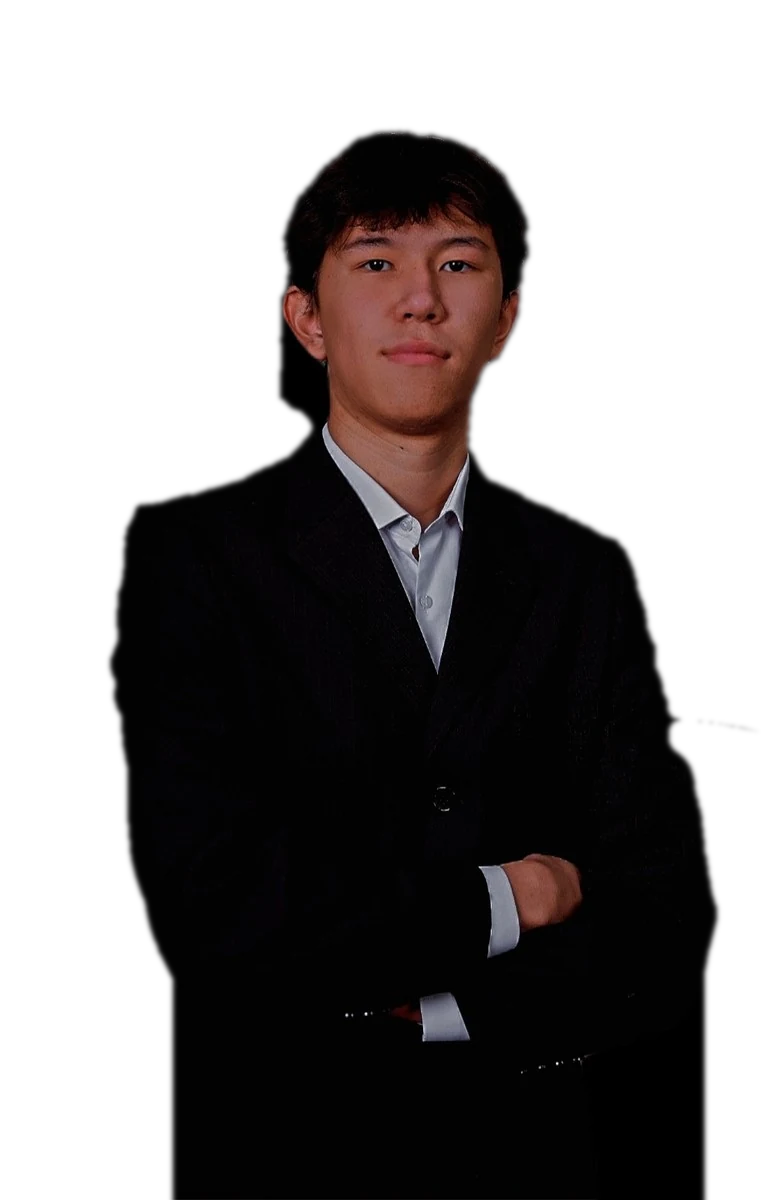
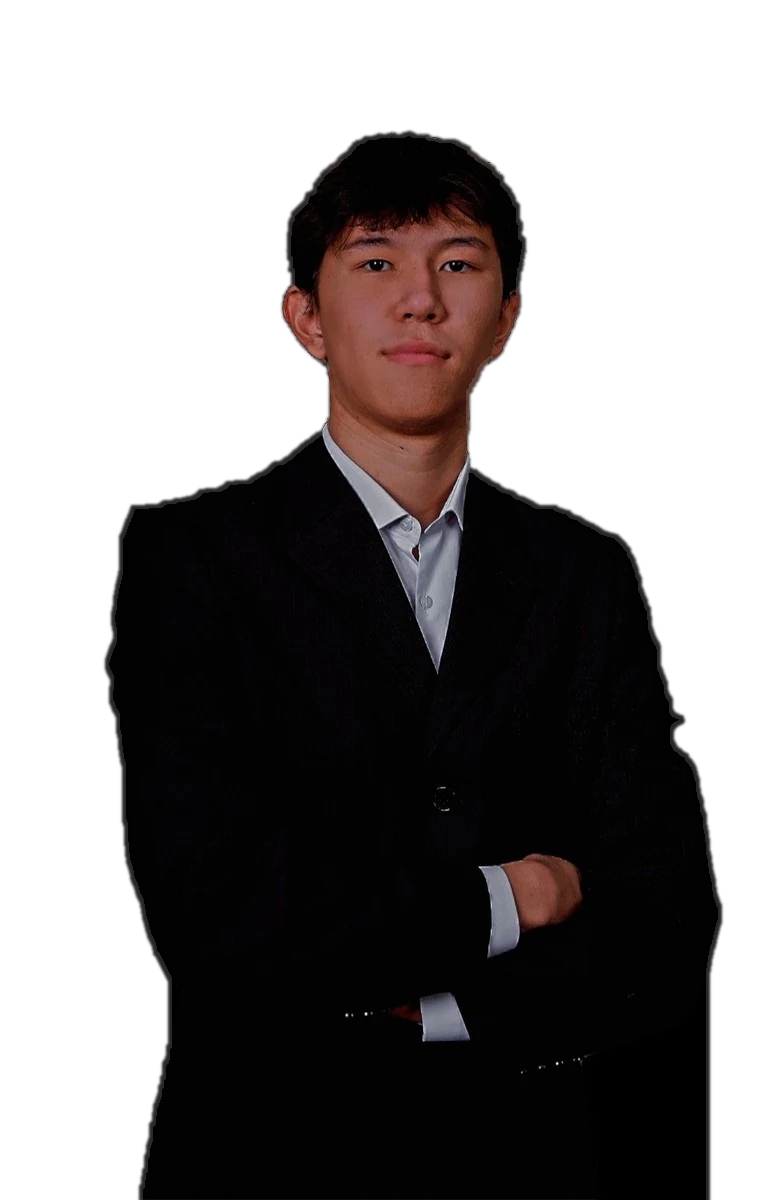
Команда 5.0 «The Living Frame»: фото ішіне кіру, X-Ray, Гүлзат портреті
- Портреттер: маска қара фондағы фотоның өзінен (GrabCut); Гүлзаттың
  шашы мен жүзінің оң жағы енді кесілмейді; бесеуі қайта жасалды.
- Ашылу: шынайы топ фотосы екі қабат (адамдар/фон, inpaint) - камера
  жақындағанда фон артқа кетіп, адамдар алға шығады, камера фото ішіне
  кіреді (tools/team_cutout.py --group).
- Финалдағы топ фотосы ашылудағы кадрдың тура орнында (проекция).
- Үзілмейтін жіп: бес автор арқылы өтетін бір сызық.
- X-Ray: әр автордың сайттағы нақты беттері, ашық тұрғанда кідіреді.
- «Болашақты адамдар жасайды.» Кэш v141, тесттер, QA есебі.

diff --git a/assets/js/team3d.js b/assets/js/team3d.js
@@ -175,20 +175,21 @@ async function start(D) {
     const m = new THREE.Mesh(new THREE.PlaneGeometry(width, width / ar), new THREE.MeshBasicMaterial({ map: tex, transparent: true, depthWrite: false, fog: false }));
     m.position.set(0, y, z); scene.add(m); return m;
   };
-  const pw = mobile ? 19 : 26;
+  const pw = mobile ? 15 : 24;
   const poster = [
-    textPlane(["THE PEOPLE"], { size: 220, z: 70, y: mobile ? 2.6 : 3.1, width: pw }),
-    textPlane(["BEHIND"], { size: 220, z: 66, y: mobile ? .95 : .55, width: pw * .62 }),
-    textPlane(["THE FUTURE."], { size: 220, z: 62, y: mobile ? -.9 : -2.3, width: pw * 1.05 }),
+    textPlane(["THE PEOPLE BEHIND"], { size: 168, z: 64, y: mobile ? 8.4 : 7.4, width: pw }),
+    textPlane(["THE FUTURE."], { size: 168, z: 64, y: mobile ? -8.6 : -7.6, width: pw }),
   ];
   poster.forEach((m, i) => { m.renderOrder = 60 + i; });
-  const crowd = ORDER.map((slug, i) => {
-    const k = i - 2, m = new THREE.Mesh(new THREE.PlaneGeometry(4.6, 5.75), new THREE.MeshBasicMaterial({ map: cutTex[slug], transparent: true, depthWrite: false, color: 0x6a6560 }));
-    const order = [1, 0, 2, 3, 4][i];   // постерде: Gulzat, Sagid (ортада), Dastan... - кадрдағы реті
-    m.position.set((order - 2) * (mobile ? 2.25 : 3.4), mobile ? -10.6 : -7.6 + Math.abs(order - 2) * .1, 54 - Math.abs(order - 2) * .5); m.scale.setScalar(mobile ? 1 : .86); m.renderOrder = 50; scene.add(m); void k; return m;
-  });
+  // «The Living Frame»: шынайы топ фотосы екі қабат (tools/team_cutout.py --group): фон және адамдар; камера жақындағанда бөлінеді
+  const PHZ = 46, PHW = mobile ? 15.5 : 19, PHH = PHW * 1681 / 2400;
+  const [bgTex, fgTex] = await Promise.all([load(D.group.bg), load(D.group.fg)]);
+  const photoBg = new THREE.Mesh(new THREE.PlaneGeometry(PHW, PHH), new THREE.MeshBasicMaterial({ map: bgTex, transparent: true, depthWrite: false, fog: false }));
+  const photoFg = new THREE.Mesh(new THREE.PlaneGeometry(PHW, PHH), new THREE.MeshBasicMaterial({ map: fgTex, transparent: true, depthWrite: false, fog: false }));
+  photoBg.position.set(0, 0, PHZ); photoFg.position.set(0, 0, PHZ + .01); photoBg.renderOrder = 48; photoFg.renderOrder = 49; scene.add(photoBg, photoFg);
+  const crowd = [photoBg, photoFg];
   const ringPts = []; for (let i = 0; i <= 160; i++) { const a = i / 160 * Math.PI * 2; ringPts.push(new THREE.Vector3(Math.cos(a) * 9, Math.sin(a) * 9, 0)); }
-  const ring = new THREE.Group(); ring.position.set(0, .6, 46); scene.add(ring);
+  const ring = new THREE.Group(); ring.position.set(0, 0, 40); scene.add(ring);
   const lineMat = new THREE.LineBasicMaterial({ color: CHAMP, transparent: true, opacity: .32, fog: false });
   ring.add(new THREE.Line(new THREE.BufferGeometry().setFromPoints(ringPts), lineMat));
   ring.add(new THREE.Line(new THREE.BufferGeometry().setFromPoints(ringPts.map((p) => p.clone().multiplyScalar(.93))), lineMat));
@@ -225,6 +226,11 @@ async function start(D) {
     }
     return { slug, m, i, x, portrait, key, grp, strips, A, B, texA, texB, lines, cw, chh, s0, archDrawn: -1 };
   });
+  // «Үзілмейтін жіп»: бес автордың сахнасы арқылы өтетін бір құрылымдық сызық; әр адамның еңбегімен ұзарады
+  const thrPts = people.map((P) => new THREE.Vector3(mobile ? P.x : P.x - 2.4, mobile ? -.6 : -1.9, PZP - 3.2));
+  const thread = new THREE.Line(new THREE.BufferGeometry().setFromPoints(new Array(64).fill(0).map(() => new THREE.Vector3())), new THREE.LineBasicMaterial({ color: CHAMP, transparent: true, opacity: 0, depthWrite: false }));
+  thread.frustumCulled = false; scene.add(thread);
+  const threadCurve = new THREE.CatmullRomCurve3([thrPts[0].clone().add(new THREE.Vector3(-14, 0, 0)), ...thrPts, thrPts[4].clone().add(new THREE.Vector3(14, 0, 0))]);
   // есімнің ішіне - сол адам жасаған қабат: әріп → құрылым → өнім
   const STAGE = [{ struct: 1, design: 0, content: 0, interact: 0 }, { struct: 1, design: 1, content: 0, interact: 0 }, { struct: 1, design: 1, content: 1, interact: 0 }, { struct: 1, design: 1, content: 1, interact: 1 }, null];
   const tmpSite = mkCanvas(FW, FH, 1);
@@ -297,11 +303,17 @@ async function start(D) {
   }
   const camU = (t) => { let i = 0; while (i < keys.length - 2 && t > keys[i + 1]) i++; return (i + clamp((t - keys[i]) / (keys[i + 1] - keys[i]))) / (keys.length - 1); };
   addEventListener("resize", layout);
+  // «мүмкін емес оралу»: финалдағы топ фотосы ашылудағы кадрдың тура орнында, тура өлшемінде (бастапқы камерадан проекциялау)
+  function frameGroup() {
+    const c0 = cam.clone(); c0.position.set(0, 0, PZ); c0.lookAt(0, 0, 0); c0.updateMatrixWorld(); c0.updateProjectionMatrix();
+    const w = stage.clientWidth, h = stage.clientHeight, a = new THREE.Vector3(-PHW / 2, PHH / 2, PHZ).project(c0), b = new THREE.Vector3(PHW / 2, -PHH / 2, PHZ).project(c0);
+    const img = $(".um-group img"); img.style.cssText = `left:${(a.x + 1) / 2 * w}px;top:${(1 - a.y) / 2 * h}px;width:${(b.x - a.x) / 2 * w}px;height:${(a.y - b.y) / 2 * h}px`;
+  }
 
   // ---------- HTML қабаттары ----------
   const q = $(".um-q"), cap = $(".um-cap"), capK = $(".um-k"), capT = $(".um-t"), capD = $(".um-d"), hint = $(".um-hint"), site = $(".um-site"), bar0 = $(".um-bar i"), fin = $(".um-fin");
   const storyEl = $(".um-story"), groupEl = $(".um-group"), voidEl = $(".um-void"), facesEl = $(".um-faces"), handEl = $(".um-hand");
-  const pp = $(".um-pp"), ppI = $(".um-pp-i"), ppE = $(".um-pp-e"), ppN = $(".um-pp-n"), ppR = $(".um-pp-r"), ppL = $(".um-pp-l"), ppA = $(".um-pp-a");
+  const pp = $(".um-pp"), ppI = $(".um-pp-i"), ppE = $(".um-pp-e"), ppN = $(".um-pp-n"), ppR = $(".um-pp-r"), ppL = $(".um-pp-l"), ppA = $(".um-pp-a"), xrB = $(".um-xr"), xrL = $(".um-xr-l");
   const CAP = D.acts; let capKey = "", ppKey = -1;
   function caption(t) {
     const c = CAP.find((a) => t >= a.from && t < a.to) || null, key = c ? c.t : "";
@@ -311,8 +323,9 @@ async function start(D) {
   }
   function person(t) {
     const i = Math.floor((t - T.act) / T.per), u = t - T.act - i * T.per, on = t >= T.act && t < T.col && u > 1.9 && u < T.per - 1.5;
-    if (on && ppKey !== i) { ppKey = i; const P = people[i], m = P.m; ppI.textContent = `${String(i + 1).padStart(2, "0")} / 05`; ppE.textContent = m.en; ppN.textContent = m.name; ppR.textContent = m.role; ppL.textContent = m.law; ppA.href = m.slug + ".html"; }
+    if (on && ppKey !== i) { ppKey = i; const P = people[i], m = P.m; ppI.textContent = `${String(i + 1).padStart(2, "0")} / 05`; ppE.textContent = m.en; ppN.textContent = m.name; ppR.textContent = m.role; ppL.textContent = m.law; ppA.href = m.slug + ".html"; xrL.replaceChildren(...m.works.map(([h, tt]) => { const li = document.createElement("li"), a = document.createElement("a"); a.href = h; a.textContent = tt; li.append(a); return li; })); }
     pp.classList.toggle("is-on", on);
+    if (!on && !xrL.hidden) { xrL.hidden = true; xrB.setAttribute("aria-expanded", "false"); }
   }
 
   // ---------- басқару: постер → «ENTER» не 6 с → өзі ойнайды ----------
@@ -328,6 +341,8 @@ async function start(D) {
   const pauseB = $(".um-pause"), chs = [...document.querySelectorAll(".um-chs a")];
   const setPause = (v) => { paused = v; pauseB.setAttribute("aria-pressed", String(v)); pauseB.textContent = v ? "Жалғастыру" : "Кідірту"; root.classList.toggle("is-paused", v); };
   pauseB.addEventListener("click", () => setPause(!paused));
+  // X-Ray: таңдалған автордың сайттағы нақты беттері (licensing/team.json works); ашық тұрғанда фильм кідіреді
+  xrB.addEventListener("click", () => { const open = xrL.hidden; xrL.hidden = !open; xrB.setAttribute("aria-expanded", String(open)); setPause(open); });
   addEventListener("keydown", (e) => { if (e.code === "Space" && started && !/^(A|BUTTON|INPUT|TEXTAREA)$/.test(e.target.tagName)) { e.preventDefault(); setPause(!paused); } });
   $(".um-enter").addEventListener("click", begin);
   new IntersectionObserver((es) => { onStage = es[0].intersectionRatio > .35; }, { threshold: [0, .35, .7] }).observe(stage);
@@ -354,7 +369,7 @@ async function start(D) {
   function buildFrags() { comp.x.clearRect(0, 0, FW, FH); layers.forEach((l) => comp.x.drawImage(l.A.c, 0, 0, FW, FH)); compTex.needsUpdate = true; off.fill(0); vel.fill(0); fragsBuilt = true; }
 
   const m4 = new THREE.Matrix4(), qI = new THREE.Quaternion(), qq = new THREE.Quaternion(), pv = new THREE.Vector3(), one = new THREE.Vector3(1, 1, 1), lookV = new THREE.Vector3();
-  layout();
+  layout(); frameGroup(); addEventListener("resize", frameGroup);
   let lastDraw = 0;
   function frame() {
     requestAnimationFrame(frame);
@@ -381,7 +396,11 @@ async function start(D) {
     // постер
     const pA = 1 - seg(t, 1.6, 3.4);
     poster.forEach((m, i) => { m.material.opacity = (started ? 1 : eo(posterT * 1.2 - i * .3)) * (1 - seg(cam.position.z, m.position.z + 3, m.position.z + .5)); m.visible = m.material.opacity > .01; });
-    crowd.forEach((m, i) => { m.material.opacity = (started ? 1 : eo(posterT * .8 - .6 - i * .08)) * (1 - seg(cam.position.z, m.position.z + 5, m.position.z + 1)); m.visible = m.material.opacity > .01; m.position.y += Math.sin(now * .4 + i) * .0015; });
+    { const sep = eio(seg(t, .3, 3.2)), into = 1 - seg(cam.position.z, PHZ + 4, PHZ + .6), fadeIn = started ? 1 : eo(posterT * .7 - .2);
+      photoBg.position.z = PHZ - sep * 3.2; photoBg.scale.setScalar(1 + sep * .07); photoBg.material.color.setScalar(1 - sep * .55);   // фон артқа кетіп, күңгірттенеді
+      photoFg.position.z = PHZ + sep * 2.6;                                                                                              // адамдар алға шығады
+      photoBg.material.opacity = fadeIn * into; photoFg.material.opacity = fadeIn * (1 - seg(cam.position.z, PHZ + 3.2, PHZ + 2.65));
+      crowd.forEach((m) => { m.visible = m.material.opacity > .01; }); }
     ring.rotation.z = now * .02; lineMat.opacity = .32 * pA * (started ? 1 : eo(posterT * .6 - .3)); ring.visible = lineMat.opacity > .01;
     // кейіпкерлер
     people.forEach((P) => {
@@ -397,6 +416,9 @@ async function start(D) {
       P.strips.forEach((S, k) => { S.mat.uniforms.reveal.value = reveal * 1.02; S.mat.uniforms.mixv.value = mixv; S.mat.uniforms.op.value = (1 - seg(u, 8.4, 10.2)) * .94; S.mesh.position.set(S.dir * brk * (1.2 + S.rnd * 2.4), S.y0 + (k - NAME_K / 2) * brk * .12, -brk * (2 + S.rnd * 9)); S.mesh.rotation.y = S.dir * brk * .25; });
       P.grp.position.x = (mobile ? P.x : P.x - 2.4) + px * (mobile ? .1 : .5);
     });
+    { const u = clamp((t - T.act + 1) / (T.col - T.act), 0, 1), pos = thread.geometry.attributes.position, n = pos.count;
+      for (let i = 0; i < n; i++) { const p = threadCurve.getPoint(Math.min(u, i / (n - 1)) * .86 + .02); pos.setXYZ(i, p.x, p.y, p.z); }
+      pos.needsUpdate = true; thread.material.opacity = .55 * seg(t, T.act - 1, T.act + 1) * (1 - seg(t, T.col - .5, T.col + 1)); thread.visible = thread.material.opacity > .01; }
     // IV: бөлшектер, тарту; V: шаңырақ
     if (fragOn && !fragsBuilt) buildFrags();
     if (!fragOn && t < T.col) fragsBuilt = false;

diff --git a/team/3d.html b/team/3d.html
@@ -55,7 +55,7 @@
   </header>
 
 <main id="main" class="um">
-  <script type="application/json" id="um-data">{"acts": [{"from": 12.1, "to": 17.5, "k": "I · Беті", "t": "Сайттың астындағы әлем", "d": "Әр сайттың астында қабаттар жатыр: әріп, интерфейс, логика, мазмұн."}, {"from": 17.5, "to": 22.8, "k": "I · Беті", "t": "Адамдарсыз - бос шыны", "d": "Оны жасаған адамдарды алып тастасақ, сайттан тек бос құрылым қалады."}, {"from": 79.6, "to": 83.8, "k": "IV · Оралу", "t": "Бесеуі қайта құрды", "d": "Сайт қабат-қабатымен орнына оралады."}, {"from": 83.8, "to": 87.5, "k": "IV · Құлау", "t": "Құрылымды өз қолыңмен бұз", "d": "Енді сайт - мыңдаған бөлшек. Тартып көріңіз: олар қайта жиналады."}, {"from": 88.0, "to": 95.2, "k": "V · Шаңырақ", "t": "Бес бағыт - бір шаңырақ", "d": "Интерфейстің бөлшектері шаңыраққа бірігеді. Бірақ оның соңғы бөлігі әлі орнында емес."}], "members": [{"slug": "gulzat", "name": "Tutkabayeva Gulzat", "role": "Бас дизайнер", "law": "Қаңқа жарыққа, түске және әріпке ие болады: Алаштың көркем тілі.", "en": "The Art Director", "given": "Gulzat", "cut": "../assets/img/team/cut/gulzat.webp"}, {"slug": "dastan", "name": "Toktybay Dastan", "role": "Мазмұн және сапа", "law": "Бос құрылым білімге толады: сабақтар, есептер, тесттер және тексерілген жауаптар.", "en": "The Curator", "given": "Dastan", "cut": "../assets/img/team/cut/dastan.webp"}, {"slug": "sagid", "name": "Sagid Mustafa", "role": "Жоба жетекшісі, архитектура", "law": "Алдымен қаңқа: әр элементтің орны мен байланысы. Платформаның ішкі жүйесі осылай басталды.", "en": "The Architect", "given": "Mustafa", "cut": "../assets/img/team/cut/sagid.webp"}, {"slug": "magzhan", "name": "Magzhan Romanov", "role": "Frontend әзірлеуші", "law": "Интерфейс тіріледі: код орындалады, батырма мен карточка әрекетке жауап береді.", "en": "The Engineer", "given": "Magzhan", "cut": "../assets/img/team/cut/magzhan.webp"}, {"slug": "merey", "name": "Kopenova Merey", "role": "Дизайнер", "law": "Бәрі оқушының қолындағы телефонға бейімделеді: ыңғайлы әрі түсінікті.", "en": "The Designer", "given": "Merey", "cut": "../assets/img/team/cut/merey.webp"}]}</script>
+  <script type="application/json" id="um-data">{"acts": [{"from": 12.1, "to": 17.5, "k": "I · Беті", "t": "Сайттың астындағы әлем", "d": "Әр сайттың астында қабаттар жатыр: әріп, интерфейс, логика, мазмұн."}, {"from": 17.5, "to": 22.8, "k": "I · Беті", "t": "Адамдарсыз - бос шыны", "d": "Оны жасаған адамдарды алып тастасақ, сайттан тек бос құрылым қалады."}, {"from": 79.6, "to": 83.8, "k": "IV · Оралу", "t": "Бесеуі қайта құрды", "d": "Сайт қабат-қабатымен орнына оралады."}, {"from": 83.8, "to": 87.5, "k": "IV · Құлау", "t": "Құрылымды өз қолыңмен бұз", "d": "Енді сайт - мыңдаған бөлшек. Тартып көріңіз: олар қайта жиналады."}, {"from": 88.0, "to": 95.2, "k": "V · Шаңырақ", "t": "Бес бағыт - бір шаңырақ", "d": "Интерфейстің бөлшектері шаңыраққа бірігеді. Бірақ оның соңғы бөлігі әлі орнында емес."}], "members": [{"slug": "gulzat", "name": "Tutkabayeva Gulzat", "role": "Бас дизайнер", "law": "Қаңқа жарыққа, түске және әріпке ие болады: Алаштың көркем тілі.", "en": "The Art Director", "given": "Gulzat", "cut": "../assets/img/team/cut/gulzat.webp", "works": [["../index.html", "Басты бет"], ["../film/index.html", "«Шақыру» фильмі"], ["../alash.html", "Алаш тұлғалары"]]}, {"slug": "dastan", "name": "Toktybay Dastan", "role": "Мазмұн және сапа", "law": "Бос құрылым білімге толады: сабақтар, есептер, тесттер және тексерілген жауаптар.", "en": "The Curator", "given": "Dastan", "cut": "../assets/img/team/cut/dastan.webp", "works": [["../math/", "Математика"], ["../academy/sat/index.html", "Digital SAT академиясы"], ["../academy/ielts/index.html", "IELTS академиясы"], ["../exam.html", "Қорытынды емтихан"]]}, {"slug": "sagid", "name": "Sagid Mustafa", "role": "Жоба жетекшісі, архитектура", "law": "Алдымен қаңқа: әр элементтің орны мен байланысы. Платформаның ішкі жүйесі осылай басталды.", "en": "The Architect", "given": "Mustafa", "cut": "../assets/img/team/cut/sagid.webp", "works": [["../academy/index.html", "CS Universe қозғалтқышы"], ["../login.html", "Платформа"], ["../copyright.html", "Лицензия аудиті"], ["../metrics.html", "Ашық метрикалар"]]}, {"slug": "magzhan", "name": "Magzhan Romanov", "role": "Frontend әзірлеуші", "law": "Интерфейс тіріледі: код орындалады, батырма мен карточка әрекетке жауап береді.", "en": "The Engineer", "given": "Magzhan", "cut": "../assets/img/team/cut/magzhan.webp", "works": [["../academy/labs/index.html", "CS зертханалары"], ["../academy/labs/equation.html", "Теңдеу таразысы"], ["../games.html", "Ойындар"], ["../viz.html", "Визуализациялар"]]}, {"slug": "merey", "name": "Kopenova Merey", "role": "Дизайнер", "law": "Бәрі оқушының қолындағы телефонға бейімделеді: ыңғайлы әрі түсінікті.", "en": "The Designer", "given": "Merey", "cut": "../assets/img/team/cut/merey.webp", "works": [["../academy/index.html", "CS Universe"], ["../posters.html", "Афиша"], ["../en/", "English Academy"]]}], "group": {"bg": "../assets/img/team/group-bg.jpg", "fg": "../assets/img/team/group-fg.webp"}}</script>
   <section class="um-film" aria-label="3D фильм: The Unmade, Жасалмаған сайт">
     <div class="um-stage">
       <canvas class="um-cv" aria-hidden="true"></canvas>
@@ -73,12 +73,12 @@
       </div>
       <p class="um-story" lang="en">Every system has a story.</p>
       <p class="um-q">Ал егер осының бәрін жасаған адамдарды алып тастасақ ше?</p>
-      <div class="um-pp" aria-live="polite"><p class="um-pp-i"></p><p class="um-pp-e" lang="en"></p><h2 class="um-pp-n"></h2><p class="um-pp-r"></p><p class="um-pp-l"></p><a class="um-pp-a" href="#">Жұмысын көру</a><p class="um-pp-note">Кадрдағы интерфейс - сайттың көрнекі көшірмесі; нақты беттері - сілтемеде.</p></div>
+      <div class="um-pp" aria-live="polite"><p class="um-pp-i"></p><p class="um-pp-e" lang="en"></p><h2 class="um-pp-n"></h2><p class="um-pp-r"></p><p class="um-pp-l"></p><div class="um-pp-row"><a class="um-pp-a" href="#">Жұмысын көру</a><button type="button" class="um-xr" aria-expanded="false" aria-controls="um-xr-l">X-Ray: нақты беттері</button></div><ul class="um-xr-l" id="um-xr-l" hidden></ul><p class="um-pp-note">Кадрдағы интерфейс - сайттың көрнекі көшірмесі; нақты беттері - сілтемеде.</p></div>
       <div class="um-cap" aria-live="polite"><p class="um-k"></p><p class="um-t"></p><p class="um-d"></p></div>
       <p class="um-hint" aria-hidden="true">Тінтуірмен не саусақпен тартыңыз</p>
       <p class="um-void">Бір идея ешқашан өздігінен шындыққа айналмайды.</p>
       <ul class="um-faces" aria-label="Команда"><li style="--i:0"><img src="../assets/img/team/dark/gulzat.jpg" alt="Tutkabayeva Gulzat, портрет" width="820" height="1200" loading="lazy" decoding="async"><b>Tutkabayeva Gulzat</b><span>Бас дизайнер</span></li><li style="--i:1"><img src="../assets/img/team/dark/dastan.jpg" alt="Toktybay Dastan, портрет" width="820" height="1200" loading="lazy" decoding="async"><b>Toktybay Dastan</b><span>Мазмұн және сапа</span></li><li style="--i:2"><img src="../assets/img/team/dark/sagid.jpg" alt="Sagid Mustafa, портрет" width="820" height="1200" loading="lazy" decoding="async"><b>Sagid Mustafa</b><span>Жоба жетекшісі, архитектура</span></li><li style="--i:3"><img src="../assets/img/team/dark/magzhan.jpg" alt="Magzhan Romanov, портрет" width="820" height="1200" loading="lazy" decoding="async"><b>Magzhan Romanov</b><span>Frontend әзірлеуші</span></li><li style="--i:4"><img src="../assets/img/team/dark/merey.jpg" alt="Kopenova Merey, портрет" width="820" height="1200" loading="lazy" decoding="async"><b>Kopenova Merey</b><span>Дизайнер</span></li></ul>
-      <div class="um-group"><img src="../assets/img/team/group-hd.jpg" alt="AO17 командасының бес мүшесі кітап сөрелерінің алдында, ортада глобус." width="2400" height="1681" loading="lazy" decoding="async"><p class="um-g1" lang="en">Not built by magic.<br>Built by people.</p><p class="um-g2">Бес адам. Бір шаңырақ. Бір болашақ.</p></div>
+      <div class="um-group"><img src="../assets/img/team/group-hd.jpg" alt="AO17 командасының бес мүшесі кітап сөрелерінің алдында, ортада глобус." width="2400" height="1681" loading="lazy" decoding="async"><p class="um-g1" lang="en">Not built by magic.<br>Built by people.</p><p class="um-g2">Болашақты адамдар жасайды.</p></div>
       <div class="um-hand"><p class="um-hand-k">Соңғы бөлігі - сенде</p><p class="um-hand-t">Бесеуі платформаны жасады. Алтыншысы - сен, оны қолданатын оқушы. Шаңырақтың соңғы бөлігін ортаға сүйреп апар.</p><button type="button" class="um-place">Орнату</button></div>
       <div class="um-fin">
         <p class="um-f1" lang="en">We built the foundation.<br>You build what's next.</p>

diff --git a/sw.js b/sw.js
@@ -1,7 +1,7 @@
 /* © 2026 AO17 командасы. All Rights Reserved. Дербес авторлық бағдарлама: рұқсатсыз көшіруге, таратуға, өзгертуге және коммерциялық пайдалануға болмайды. LICENSE-PROPRIETARY.md, COPYRIGHT.md. Harvard CS50 материалдары мен үшінші тарап компоненттері өз лицензияларымен қалады. */
 // AO17 — офлайн режим.
 // Беттер желіден алынады, ал желі жоқ кезде кэштегі соңғы нұсқа көрсетіледі.
-const CACHE = "cs50kz-v140";
+const CACHE = "cs50kz-v141";
 const CORE = [
   "./", "index.html", "programming.html", "about.html", "glossary.html", "certificate.html", "playground.html", "practice.html", "flashcards.html", "viz.html", "teacher.html", "debug.html", "detective.html", "flask.html", "projects.html", "assets/js/projects.js", "projects/model.js", "projects/checks/p1.js", "projects/checks/p2.js", "projects/checks/p3.js", "projects/checks/p4.js", "exam.html", "assets/js/exam.js", "profile.html", "assets/js/profile.js", "assets/js/cabinet.js", "games.html", "copyright.html", "assets/js/games-core.js", "assets/js/games-a.js", "assets/js/games-b.js", "assets/css/games-ui.css", "assets/css/games-ui2.css", "assets/fonts/inter-cyrillic-4ee8fc.woff2", "assets/fonts/inter-cyrillic-ext-ec84a3.woff2", "assets/fonts/inter-latin-567244.woff2", "assets/fonts/inter-latin-ext-395290.woff2", "assets/fonts/jetbrains-mono-cyrillic-b1b041.woff2", "assets/fonts/jetbrains-mono-cyrillic-ext-27e1b5.woff2", "assets/fonts/jetbrains-mono-latin-480c06.woff2", "assets/fonts/jetbrains-mono-latin-ext-ba1653.woff2", "assets/fonts/unbounded-cyrillic-c86556.woff2", "assets/fonts/unbounded-cyrillic-ext-67e1db.woff2", "assets/fonts/unbounded-latin-06f2e4.woff2", "assets/fonts/unbounded-latin-ext-80da0c.woff2", "assets/fonts/pt-serif-700-cyrillic.woff2", "assets/fonts/pt-serif-700-latin.woff2", "assets/fonts/fonts.css", "assets/js/cloud.js", "assets/js/feedback.js", "assets/js/flask.js", "assets/data/mystery.js", "assets/data/mystery2.js", "assets/data/quotes.js", "assets/data/portraits.js", "alash.html", "partners.html", "metrics.html", "assets/js/metrics.js", "courses.html", "python/index.html", "sql/index.html", "ai/index.html", "web/index.html", "sql/data/lectures.js", "ai/data/lectures.js", "web/data/lectures.js", "sql/lectures/week-0.html", "ai/lectures/week-0.html", "web/lectures/week-0.html", "python/lectures/week-0.html", "python/lectures/week-1.html", "python/lectures/week-2.html", "python/lectures/week-3.html", "python/lectures/week-4.html", "python/lectures/week-5.html", "python/lectures/week-6.html", "python/lectures/week-7.html", "python/lectures/week-8.html", "python/lectures/week-9.html", "python/checks/week-0.js", "python/checks/week-1.js", "python/checks/week-2.js", "python/checks/week-3.js", "python/checks/week-4.js", "python/checks/week-5.js", "python/checks/week-6.js", "python/checks/week-7.js", "python/checks/week-8.js", "python/checks/week-9.js", "python/data/lectures.js", "map.html", "cheatsheet.html", "assets/data/bugs.js", "assets/data/trace.js", "assets/data/checks.js", "assets/data/sqlchecks.js", "assets/img/seal.svg", "assets/img/bota.svg", "assets/img/bota-happy.svg", "assets/img/bota-think.svg", "assets/img/bota-wow.svg", "assets/vendor/qrcode/qrcode.js",
   "assets/css/style.css", "assets/js/main.js", "assets/js/labs.js",

diff --git a/assets/css/team.css b/assets/css/team.css
@@ -909,3 +909,18 @@ html:not(.st-js) .dm-beam { transform: none; }
   .um-g2 { margin-bottom: 40px; }
   .um-hand-t { font-size: .9rem; margin: .3rem 0 .6rem; }
 }
+/* 5.0: X-Ray (нақты беттер), фотоға оралу */
+.um-pp-row { display: flex; flex-wrap: wrap; gap: 10px 22px; align-items: baseline; }
+.um-xr { font: 500 .68rem/1 Inter, system-ui, sans-serif; letter-spacing: .22em; text-transform: uppercase; color: var(--cha); background: none; border: 0; border-bottom: 1px solid rgb(191 162 118 / .45); padding: 0 0 .45rem; cursor: pointer; }
+.um-xr[aria-expanded="true"] { color: var(--por); border-color: var(--por); }
+.um-xr:focus-visible, .um-xr-l a:focus-visible { outline: 1px solid var(--por); outline-offset: 4px; }
+.um-xr-l { list-style: none; margin: 1rem 0 0; padding: .9rem 0 0; border-top: 1px solid rgb(236 232 223 / .18); display: grid; gap: .55rem; }
+.um-xr-l a { color: var(--por); font-size: .9rem; text-decoration: none; border-bottom: 1px solid rgb(236 232 223 / .25); }
+.um-xr-l a:hover { border-color: var(--cha); }
+.um-group { place-items: initial; background: var(--obs); }
+.um-group img { inset: auto; width: auto; height: auto; object-fit: cover; }
+.um-group::after { background: linear-gradient(180deg, transparent 52%, rgb(8 9 11 / .9) 84%); }
+.um-group .um-g1, .um-group .um-g2 { position: absolute; left: 0; right: 0; }
+.um-group .um-g1 { bottom: calc(clamp(48px, 9vh, 96px) + 2.6rem); }
+.um-group .um-g2 { bottom: 0; margin-bottom: clamp(40px, 8vh, 84px); }
+@media (max-width: 760px) { .um-pp-row { gap: 8px 16px; } .um-xr-l { max-height: 30vh; overflow: auto; } }

diff --git a/tools/team_cutout.py b/tools/team_cutout.py
@@ -78,15 +78,37 @@ def dark(slug):
     Hm, inl = cv2.findHomography(A, B, cv2.RANSAC, 4.0)
     h, w = drk.shape[:2]
     a = cv2.warpPerspective(cut, Hm, (w, h), flags=cv2.INTER_LINEAR, borderMode=cv2.BORDER_REPLICATE)
+    # 5.0: маска қара фондағы фотоның өзінен (GrabCut). Көшірілген контур тек бастапқы болжам: шаш пен жүз жарық болғандықтан,
+    # ол қате кескен жерлерді (мысалы, шаштың шеті) суреттің өзі түзетеді. Қара киім үшін көшірілген контур кеуде тұсында сақталады.
     lum = cv2.cvtColor(drk, cv2.COLOR_BGR2GRAY)
-    a = np.maximum(a, np.where((lum > 60) & (cv2.GaussianBlur(a, (0, 0), 12) > 40), 255, 0).astype(np.uint8))   # ашық бөліктер (жүз, көйлек) - адам
-    a = cv2.GaussianBlur(a, (0, 0), 1.4)
+    warped = a.copy()
+    near = cv2.dilate(warped, cv2.getStructuringElement(cv2.MORPH_ELLIPSE, (61, 61)))
+    gm = np.full((h, w), cv2.GC_PR_BGD, np.uint8)
+    gm[warped > 128] = cv2.GC_PR_FGD
+    gm[(near > 0) & (lum > 34)] = cv2.GC_PR_FGD
+    gm[cv2.erode(warped, cv2.getStructuringElement(cv2.MORPH_ELLIPSE, (41, 41))) > 200] = cv2.GC_FGD
+    gm[(lum > 70) & (near > 0)] = cv2.GC_FGD
+    gm[(near == 0) & (lum < 20)] = cv2.GC_BGD
+    bgm, fgm = np.zeros((1, 65), np.float64), np.zeros((1, 65), np.float64)
+    cv2.grabCut(drk, gm, None, bgm, fgm, 6, cv2.GC_INIT_WITH_MASK)
+    a = np.where((gm == cv2.GC_FGD) | (gm == cv2.GC_PR_FGD), 255, 0).astype(np.uint8)
+    yy = np.arange(h)[:, None]
+    a = np.maximum(a, np.where(yy > h * .42, warped, 0).astype(np.uint8))   # қара киім: кеуденің төменгі жағы
+    n, lab, st, _ = cv2.connectedComponentsWithStats(a, 8)
+    if n > 1:
+        a = np.where(lab == 1 + int(np.argmax(st[1:, cv2.CC_STAT_AREA])), 255, 0).astype(np.uint8)
+    a = cv2.morphologyEx(a, cv2.MORPH_CLOSE, cv2.getStructuringElement(cv2.MORPH_ELLIPSE, (7, 7)))
+    # жиек: шаш ұштары жарықтығына қарай жұмсақ (қара фонға табиғи сіңеді)
+    soft = np.clip((lum.astype(np.float32) - 14) / 40, 0, 1)
+    edge = cv2.dilate(a, np.ones((9, 9), np.uint8)) - cv2.erode(a, np.ones((9, 9), np.uint8))
+    a = cv2.GaussianBlur(a, (0, 0), 1.2).astype(np.float32)
+    a = np.where(edge > 0, np.maximum(a * .85, soft * 255 * (a > 20)), a).clip(0, 255).astype(np.uint8)
     rgb = cv2.cvtColor(drk, cv2.COLOR_BGR2RGB)
     Image.fromarray(np.dstack([rgb, a]), "RGBA").save(OUT / f"{slug}.webp", "WEBP", quality=88, method=6)
     return int(inl.sum()), len(good)
 
 
-if __name__ == "__main__":
+if __name__ == "__main__" and "--group" not in sys.argv:
     if "--dark" in sys.argv:
         team = json.loads((ROOT / "licensing/team.json").read_text(encoding="utf-8"))
         for m in team["members"]:
@@ -96,3 +118,48 @@ if __name__ == "__main__":
     slugs = sys.argv[1:] or [m["slug"] for m in team["members"]]
     for s in slugs:
         print(s, f"адам ауданы: {cut(s):.0%}")
+
+
+def group_layers():
+    """Топ фотосын екі қабатқа бөлу (team/3d.html «The Living Frame» ашылуы үшін):
+    group-fg.webp - бес адам (мөлдір фон), group-bg.jpg - адамдар алынып, орны толтырылған (inpaint) фон.
+    Бастапқы болжам - team.json-дағы бет орындары; бастан төмен қарай дене бағаны."""
+    team = json.loads((ROOT / "licensing/team.json").read_text(encoding="utf-8"))
+    img = cv2.imread(str(ROOT / "assets/img/team/group-hd.jpg"))
+    s = 1200 / img.shape[1]
+    sm = cv2.resize(img, None, fx=s, fy=s, interpolation=cv2.INTER_AREA)
+    h, w = sm.shape[:2]
+    gm = np.full((h, w), cv2.GC_BGD, np.uint8)
+    for m in team["members"]:
+        fx, fy = m["face"][0] / 100 * w, m["face"][1] / 100 * h
+        hw = w * .075
+        cv2.ellipse(gm, (int(fx), int(fy)), (int(hw * 1.5), int(hw * 1.9)), 0, 0, 360, cv2.GC_PR_FGD, -1)
+        cv2.rectangle(gm, (int(fx - hw * 2.3), int(fy + hw * .8)), (int(fx + hw * 2.3), h), cv2.GC_PR_FGD, -1)
+    for m in team["members"]:
+        fx, fy = m["face"][0] / 100 * w, m["face"][1] / 100 * h
+        hw = w * .075
+        cv2.ellipse(gm, (int(fx), int(fy)), (int(hw * .45), int(hw * .6)), 0, 0, 360, cv2.GC_FGD, -1)
+        cv2.rectangle(gm, (int(fx - hw * .5), int(fy + hw * 1.6)), (int(fx + hw * .5), int(min(h - 1, fy + hw * 4))), cv2.GC_FGD, -1)
+    bg, fg = np.zeros((1, 65), np.float64), np.zeros((1, 65), np.float64)
+    cv2.grabCut(sm, gm, None, bg, fg, 8, cv2.GC_INIT_WITH_MASK)
+    a = np.where((gm == cv2.GC_FGD) | (gm == cv2.GC_PR_FGD), 255, 0).astype(np.uint8)
+    a = cv2.morphologyEx(a, cv2.MORPH_OPEN, cv2.getStructuringElement(cv2.MORPH_ELLIPSE, (5, 5)))
+    a = cv2.morphologyEx(a, cv2.MORPH_CLOSE, cv2.getStructuringElement(cv2.MORPH_ELLIPSE, (11, 11)))
+    out_w = 1800
+    k = out_w / img.shape[1]
+    big = cv2.resize(img, None, fx=k, fy=k, interpolation=cv2.INTER_AREA)
+    Ak = cv2.GaussianBlur(cv2.resize(a, (big.shape[1], big.shape[0]), interpolation=cv2.INTER_LINEAR), (0, 0), 1.6)
+    rgb = cv2.cvtColor(big, cv2.COLOR_BGR2RGB)
+    Image.fromarray(np.dstack([rgb, Ak]), "RGBA").save(ROOT / "assets/img/team/group-fg.webp", "WEBP", quality=86, method=6)
+    hole = cv2.dilate(np.where(Ak > 20, 255, 0).astype(np.uint8), cv2.getStructuringElement(cv2.MORPH_ELLIPSE, (31, 31)))
+    small = cv2.resize(big, None, fx=.25, fy=.25)
+    hs = cv2.resize(hole, (small.shape[1], small.shape[0]))
+    fill = cv2.resize(cv2.inpaint(small, hs, 9, cv2.INPAINT_TELEA), (big.shape[1], big.shape[0]), interpolation=cv2.INTER_CUBIC)
+    fill = cv2.GaussianBlur(fill, (0, 0), 6)
+    bgimg = np.where(hole[..., None] > 0, fill, big)
+    cv2.imwrite(str(ROOT / "assets/img/team/group-bg.jpg"), bgimg, [cv2.IMWRITE_JPEG_QUALITY, 84])
+    return float((Ak > 128).mean())
+
+
+if __name__ == "__main__" and "--group" in sys.argv:
+    print("топ фотосындағы адам ауданы:", round(group_layers(), 3))

diff --git a/tools/team_build.py b/tools/team_build.py
@@ -380,7 +380,8 @@ def film3d_page():
     p = "../"
     data = {"acts": [{"from": a, "to": b, "k": k, "t": t, "d": d} for a, b, k, t, d in ACTS],
             "members": [{"slug": m["slug"], "name": m["name"], "role": m["role"], "law": LAW[m["slug"]], "en": EN[m["slug"]], "given": GIVEN[m["slug"]],
-                         "cut": f"{p}assets/img/team/cut/{m['slug']}.webp"} for m in M]}
+                         "cut": f"{p}assets/img/team/cut/{m['slug']}.webp", "works": [[p + h, t] for h, t, d in m["works"]]} for m in M],
+            "group": {"bg": f"{p}assets/img/team/group-bg.jpg", "fg": f"{p}assets/img/team/group-fg.webp"}}
     js = json.dumps(data, ensure_ascii=False).replace("</", "<\\/")
     credits = "".join(f'<div><dt>{E(m["role"])}</dt><dd><a href="{m["slug"]}.html">{E(m["name"])}</a></dd></div>' for m in sorted(M, key=lambda m: ["sagid", "gulzat", "dastan", "magzhan", "merey"].index(m["slug"])))
     faces = "".join(f'<li style="--i:{k}"><img src="{p}assets/img/team/dark/{m["slug"]}.jpg" alt="{E(m["name"])}, портрет" width="820" height="1200" loading="lazy" decoding="async"><b>{E(m["name"])}</b><span>{E(m["role"])}</span></li>' for k, m in enumerate(M))
@@ -405,12 +406,12 @@ def film3d_page():
       </div>
       <p class="um-story" lang="en">Every system has a story.</p>
       <p class="um-q">Ал егер осының бәрін жасаған адамдарды алып тастасақ ше?</p>
-      <div class="um-pp" aria-live="polite"><p class="um-pp-i"></p><p class="um-pp-e" lang="en"></p><h2 class="um-pp-n"></h2><p class="um-pp-r"></p><p class="um-pp-l"></p><a class="um-pp-a" href="#">Жұмысын көру</a><p class="um-pp-note">Кадрдағы интерфейс - сайттың көрнекі көшірмесі; нақты беттері - сілтемеде.</p></div>
+      <div class="um-pp" aria-live="polite"><p class="um-pp-i"></p><p class="um-pp-e" lang="en"></p><h2 class="um-pp-n"></h2><p class="um-pp-r"></p><p class="um-pp-l"></p><div class="um-pp-row"><a class="um-pp-a" href="#">Жұмысын көру</a><button type="button" class="um-xr" aria-expanded="false" aria-controls="um-xr-l">X-Ray: нақты беттері</button></div><ul class="um-xr-l" id="um-xr-l" hidden></ul><p class="um-pp-note">Кадрдағы интерфейс - сайттың көрнекі көшірмесі; нақты беттері - сілтемеде.</p></div>
       <div class="um-cap" aria-live="polite"><p class="um-k"></p><p class="um-t"></p><p class="um-d"></p></div>
       <p class="um-hint" aria-hidden="true">Тінтуірмен не саусақпен тартыңыз</p>
       <p class="um-void">Бір идея ешқашан өздігінен шындыққа айналмайды.</p>
       <ul class="um-faces" aria-label="Команда">{faces}</ul>
-      <div class="um-group"><img src="{p}assets/img/team/group-hd.jpg" alt="AO17 командасының бес мүшесі кітап сөрелерінің алдында, ортада глобус." width="2400" height="1681" loading="lazy" decoding="async"><p class="um-g1" lang="en">Not built by magic.<br>Built by people.</p><p class="um-g2">Бес адам. Бір шаңырақ. Бір болашақ.</p></div>
+      <div class="um-group"><img src="{p}assets/img/team/group-hd.jpg" alt="AO17 командасының бес мүшесі кітап сөрелерінің алдында, ортада глобус." width="2400" height="1681" loading="lazy" decoding="async"><p class="um-g1" lang="en">Not built by magic.<br>Built by people.</p><p class="um-g2">Болашақты адамдар жасайды.</p></div>
       <div class="um-hand"><p class="um-hand-k">Соңғы бөлігі - сенде</p><p class="um-hand-t">Бесеуі платформаны жасады. Алтыншысы - сен, оны қолданатын оқушы. Шаңырақтың соңғы бөлігін ортаға сүйреп апар.</p><button type="button" class="um-place">Орнату</button></div>
       <div class="um-fin">
         <p class="um-f1" lang="en">We built the foundation.<br>You build what's next.</p>

diff --git a/COPYRIGHT.md b/COPYRIGHT.md
@@ -12,7 +12,7 @@
 |---|---|
 | A1 · Harvard CS50 түпнұсқасы | 141 |
 | A2 · Harvard материалының аудармасы/бейімдеуі | 52 |
-| B · AO17 командасының дербес әзірлемесі | 1832 |
+| B · AO17 командасының дербес әзірлемесі | 1834 |
 | C · Үшінші тарап | 94 |
 | R · Тексеруді қажет етеді (лицензия тағайындалмаған) | 56 |
 
@@ -54,7 +54,7 @@
 | `assets/js/main.js`<br>`assets/js/exam.js`<br>`exam.html`<br>`assets/js/profile.js`<br>`profile.html`<br>`assets/js/cloud.js`<br>`teacher.html`<br>`assets/js/feedback.js`<br>`supabase/**`<br>`certificate.html`<br>`partners.html`<br>`posters.html`<br>`metrics.html`<br>`assets/js/metrics.js`<br>`sw.js`<br>`manifest.webmanifest`<br>`assets/js/ao.js`<br>`assets/js/ao-ui.js`<br>`assets/js/ao-gate.js`<br>`login.html`<br>`admin.html`<br>`student.html`<br>`tools/gate.py`<br>`tools/create_admin.py`<br>`docs/PLATFORM.md`<br>`.github/workflows/platform-deploy.yml` | **B-platform** Платформа: движок сайта, прогресс, достижения, редактор, тест-система, профиль, кабинеты ученика и преподавателя, синхронизация (33 файл) | AO17 командасы | © 2026 AO17 командасы. All Rights Reserved (LICENSE-PROPRIETARY.md) | иесі мәлімдеген |
 | `assets/css/style.css`<br>`docs/MOTION-SYSTEM.md`<br>`docs/TEAM-EXPERIENCE.md`<br>`docs/INVESTOR-BRIEF.md`<br>`docs/DUE-DILIGENCE.md`<br>`docs/DATA-ROOM.md`<br>`docs/INVENTORY.md`<br>`assets/img/bota*.svg`<br>`assets/img/seal.svg`<br>`assets/img/brand/**`<br>`assets/img/posters/**`<br>`film/**`<br>`tools/make_film.py`<br>`tools/make_posters.py`<br>`docs/FILM.md`<br>`docs/MATH-FX-PROGRESS.md`<br>`docs/CODE-FX-PROGRESS.md`<br>`assets/img/icon*`<br>`assets/img/og.jpg`<br>`assets/img/og/**`<br>`tools/make_og.mjs`<br>`tools/make_og_main.mjs`<br>`tools/og-main.html` | **B-design** Дизайн, стили, фирменная графика (маскот Бота, иконки, превью) (89 файл) | AO17 командасы | © 2026 AO17 командасы. All Rights Reserved (LICENSE-PROPRIETARY.md) | иесі мәлімдеген |
 | `tools/build.py`<br>`tools/fetch_cs50.py`<br>`tools/__pycache__/**`<br>`tests/**`<br>`.github/**`<br>`licensing/**`<br>`robots.txt`<br>`sitemap.xml`<br>`.nojekyll`<br>`.gitignore`<br>`**/.gitkeep`<br>`tools/licence_audit.py` | **B-tools-tests** Скрипты сборки, тесты, CI (74 файл) | AO17 командасы | © 2026 AO17 командасы. All Rights Reserved (LICENSE-PROPRIETARY.md) | иесі мәлімдеген |
-| `team.html`<br>`team/**`<br>`assets/css/team.css`<br>`assets/js/team.js`<br>`assets/js/team3d.js`<br>`assets/js/home3d.js`<br>`assets/img/team/**`<br>`tools/team_build.py`<br>`tools/team_photos.py`<br>`tools/team_cutout.py` | **B-team** «Команда»: команда беті, бес жеке бет, фото-фильм, басты беттің 8-сахнасы (34 файл) | AO17 командасы | © 2026 AO17 командасы. All Rights Reserved (LICENSE-PROPRIETARY.md) | иесі мәлімдеген |
+| `team.html`<br>`team/**`<br>`assets/css/team.css`<br>`assets/js/team.js`<br>`assets/js/team3d.js`<br>`assets/js/home3d.js`<br>`assets/img/team/**`<br>`tools/team_build.py`<br>`tools/team_photos.py`<br>`tools/team_cutout.py` | **B-team** «Команда»: команда беті, бес жеке бет, фото-фильм, басты беттің 8-сахнасы (36 файл) | AO17 командасы | © 2026 AO17 командасы. All Rights Reserved (LICENSE-PROPRIETARY.md) | иесі мәлімдеген |
 | `qazaqcode/**` | **B-qazaqcode** QazaqCode Platform (отдельный коммерческий продукт) (319 файл) | Sagid Mustafa | © 2026 Sagid Mustafa. All Rights Reserved (qazaqcode/LICENSE) | иесі мәлімдеген |
 | `README.md`<br>`LICENSE.md`<br>`LICENSE-HARVARD.md`<br>`LICENSE-PROPRIETARY.md`<br>`COPYRIGHT.md`<br>`THIRD-PARTY-LICENSES.md`<br>`TAKEDOWN.md`<br>`copyright.html`<br>`404.html`<br>`test-results/**`<br>`MOBILE-TESTING.md` | **B-docs** Документы проекта: README, лицензии, правила обращения (10 файл) | AO17 командасы | © 2026 AO17 командасы. All Rights Reserved (LICENSE-PROPRIETARY.md) | иесі мәлімдеген |
 | `assets/vendor/sqljs/**` | **C-sqljs** sql.js (SQLite в WebAssembly) (4 файл) | sql.js authors; SQLite - общественное достояние | MIT | расталған |

diff --git a/docs/TEAM-EXPERIENCE.md b/docs/TEAM-EXPERIENCE.md
@@ -60,10 +60,20 @@
 | Құжаттар арасындағы View Transitions (`team/3d.html` → `index.html`) | Сайттың жалпы `main.js` ауысуы қолданылады | [REVIEW ONLY] |
 | Дыбыс | Әдейі жоқ (сайт ережесі) | - |
 
+## 4.1. «The Living Frame» (5.0)
+
+- Ашылу - шынайы топ фотосы, екі қабат (`tools/team_cutout.py --group`: адамдар `group-fg.webp`, фон `group-bg.jpg`, орны inpaint).
+  Камера жақындағанда фон артқа кетіп күңгірттенеді, адамдар алға шығады (шектеулі параллакс), камера фотоның ішіне кіреді. [EXECUTED]
+- Финалдағы топ фотосы ашылудағы кадрдың тура орнында, тура өлшемінде (бастапқы камерадан проекция) - «мүмкін емес оралу». [EXECUTED]
+- «Үзілмейтін жіп»: бес автордың сахнасы арқылы өтетін бір сызық, әр адамның еңбегімен ұзарады. [EXECUTED]
+- X-Ray: әр автордың сайттағы нақты беттері (`licensing/team.json` works), батырма (басу - ашу/жабу, телефонда да), ашық тұрғанда фильм кідіреді. [EXECUTED]
+- Гүлзаттың портретіндегі шаш ақауы: маска енді қара фондағы фотоның өзінен (GrabCut), ескі контур тек болжам; бесеуі де қайта жасалды. [EXECUTED, көзбен тексерілді]
+
 ## 5. Шектеулер
 
 - Blender модельдері, KTX2 текстуралары, нақты жарық пісіру жоқ: барлық пішін кодпен құрылады.
-- Портрет маскалары классикалық GrabCut + SIFT көшіруімен жасалған; шаш жиегі кәсіби қолмен өңдеуден төмен.
+- Портрет және топ фотосы маскалары классикалық GrabCut-пен жасалған; топ фотосының адамдар қабатына орындықтың бөліктері ілескен, шаш жиегі кәсіби қолмен өңдеуден төмен.
+- Топ фотосынан кейін камера сайтқа (I акт) өтеді; «фото → тура Mustafa» тікелей ауысуы жоқ.
 - Нақты телефондағы өнімділік өлшенбеген.
 
 ## 6. Қайтару
